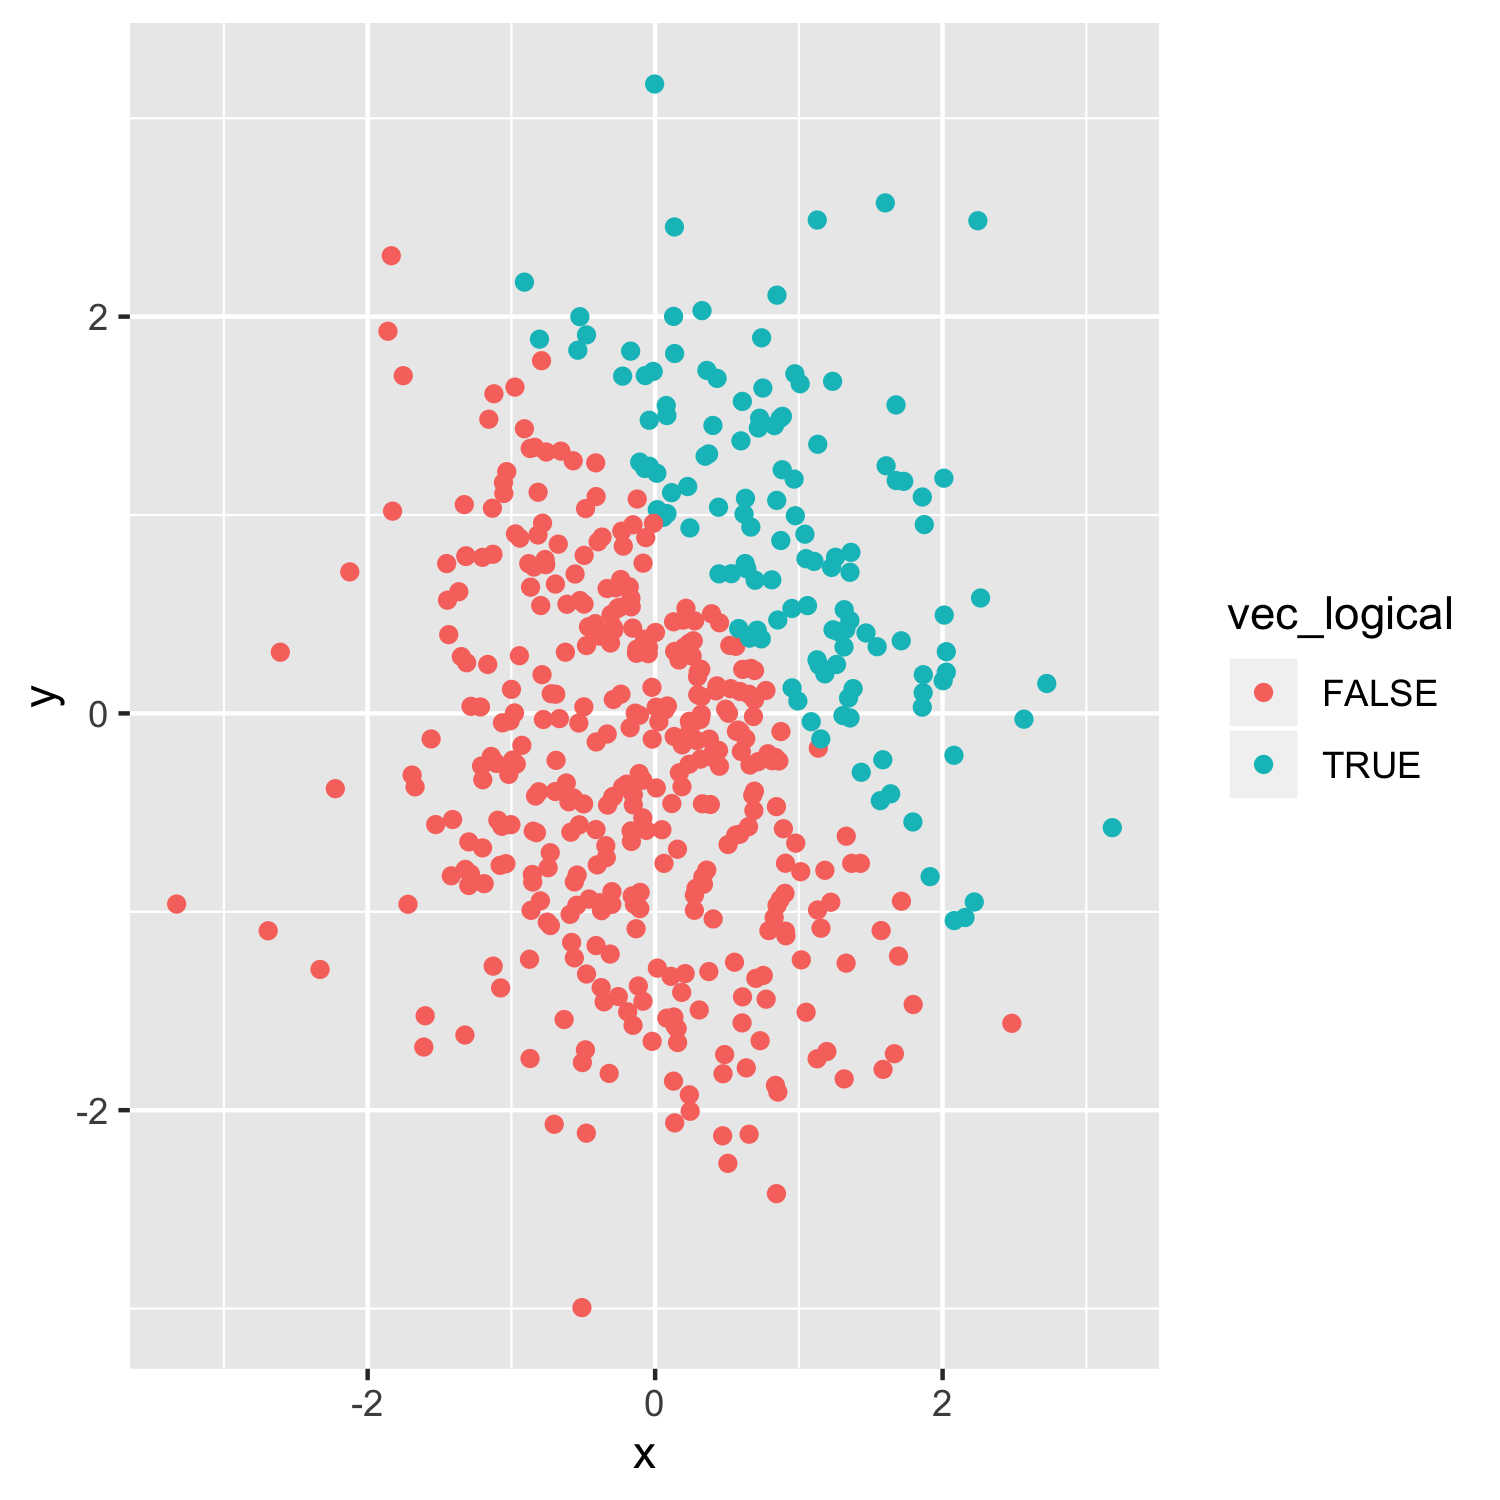
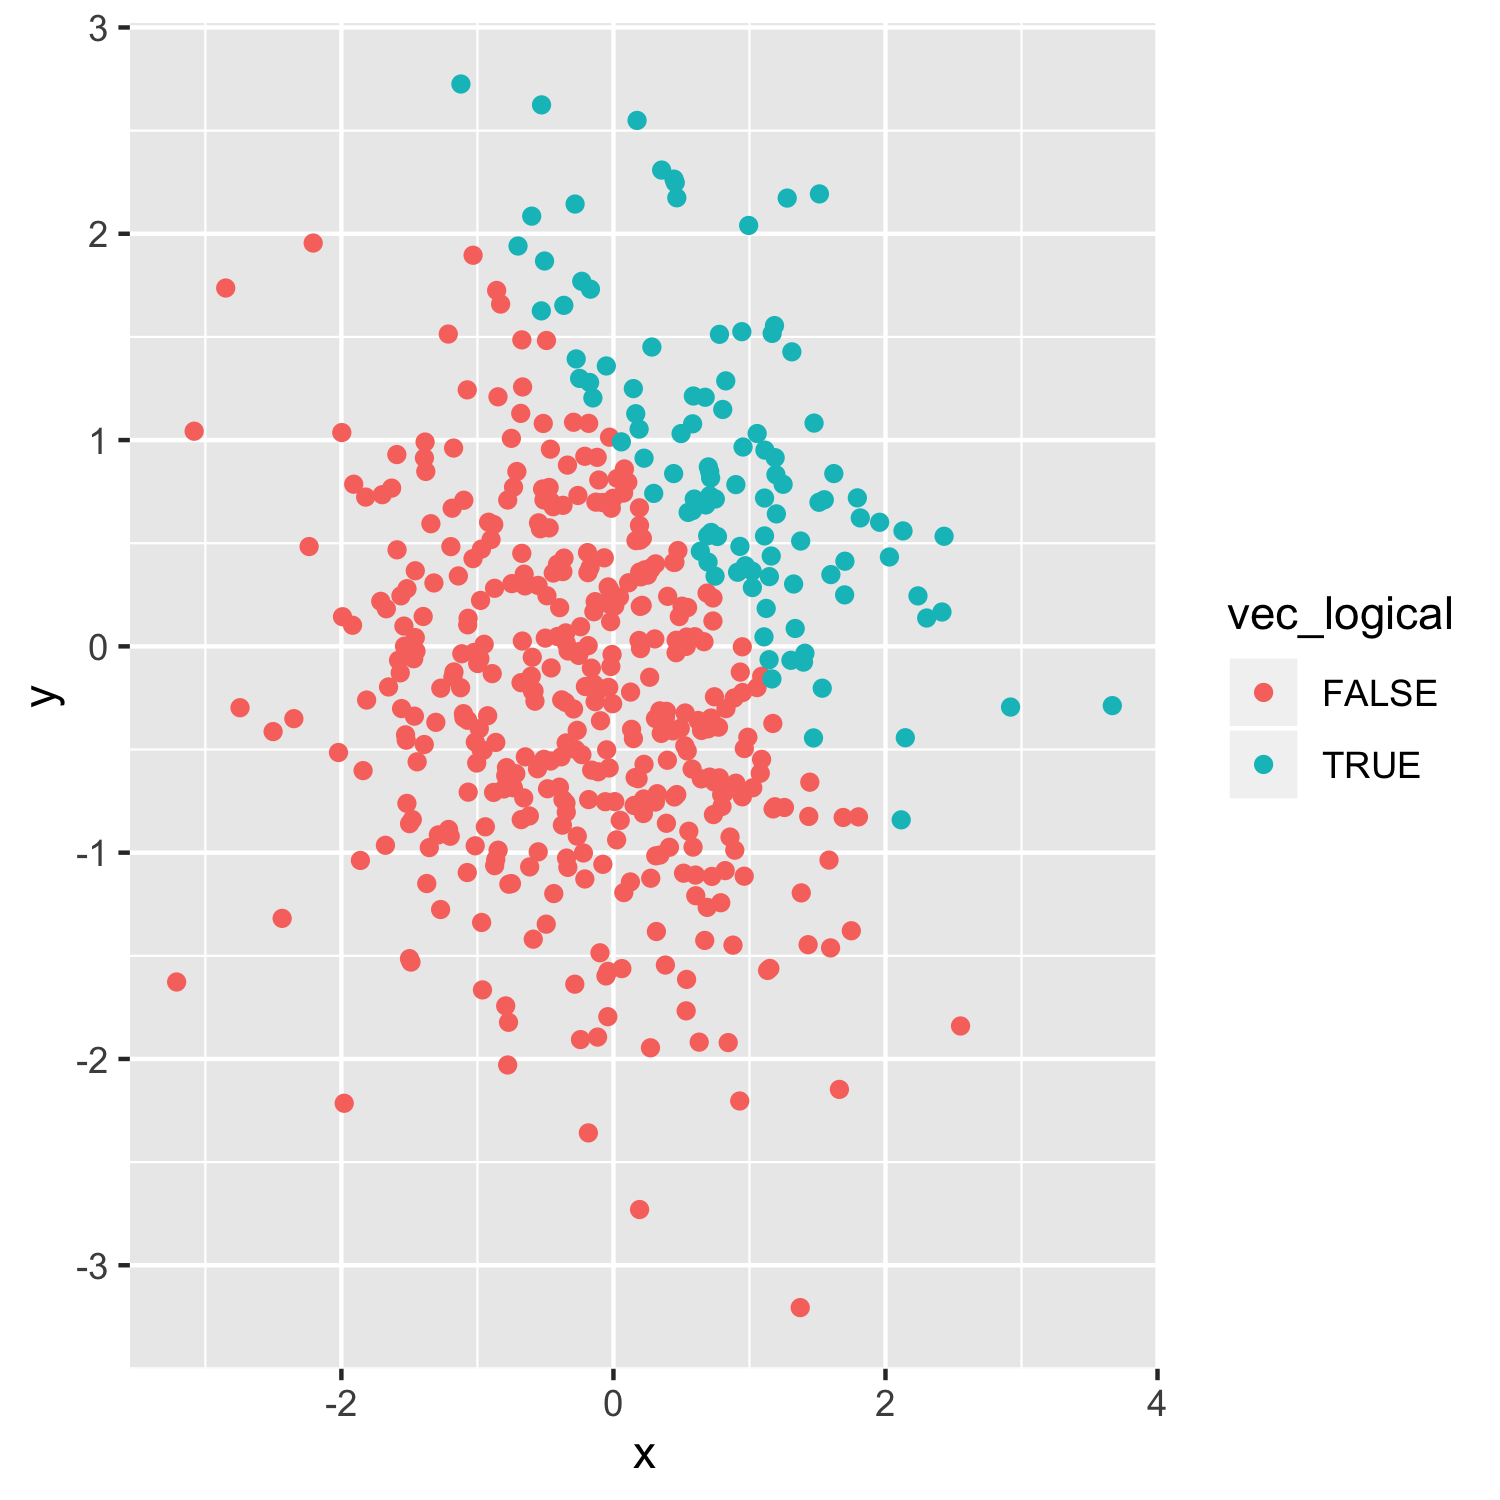
edited the inline notations and fixed the variable names for the scatterplots

diff --git a/p8105_hw1_kzw2102.md b/p8105_hw1_kzw2102.md
@@ -13,18 +13,18 @@ Kelly Wang
 ## 3.a character vector of length 8
 ## 4.a factor vector of length 8, with 3 different factor "levels"
 problem1_df=tibble(
-  x= rnorm(8),
-  vec_logic = x>0,
+  number= rnorm(8),
+  vec_logic = number>0,
   vec_char = c("I'm", "a", "fan", "of", "pineapple", "on", "pizza", "yum!"),
-  vec_factor= c("high", "medium", "low", "low", "medium", "high", "medium", "medium")
+  vec_factor= factor(c("high", "medium", "low", "low", "medium", "high", "medium", "medium"))
 )
 ```
 
-\#\#taking mean of each variable in the data frame
+## taking mean of each variable in the data frame
 
 ``` r
 #create variable
-number=pull(problem1_df, var=x)
+number=pull(problem1_df, var=number)
 overzero=pull(problem1_df, var=vec_logic)
 characters=pull(problem1_df, var=vec_char)
 levels=pull(problem1_df, var=vec_factor)
@@ -33,13 +33,13 @@ levels=pull(problem1_df, var=vec_factor)
 mean(number)
 ```
 
-    ## [1] -0.01350206
+    ## [1] -0.6722893
 
 ``` r
 mean(overzero)
 ```
 
-    ## [1] 0.5
+    ## [1] 0.375
 
 ``` r
 mean(characters)
@@ -78,12 +78,12 @@ vector.
 
 ``` r
 #convert the logical vector to numeric, and multiple the random sample by the result
-y=number*as.numeric(overzero)
-y
+c=number*as.numeric(overzero)
+c
 ```
 
-    ## [1] 0.0000000 0.5607329 0.0000000 1.7545845 0.7427413 1.2169457 0.0000000
-    ## [8] 0.0000000
+    ## [1] 0.0000000 0.0000000 0.0000000 0.0000000 0.0000000 0.6685766 0.6685337
+    ## [8] 0.5763231
 
 ``` r
 #convert the logical vector to a factor, and multiple the random sample by the result
@@ -105,8 +105,8 @@ b=number*as.numeric(as.factor(overzero))
 b
 ```
 
-    ## [1] -0.5599323  1.1214657 -1.7294863  3.5091690  1.4854825  2.4338913
-    ## [7] -1.2689374 -0.8246648
+    ## [1] -1.6819644 -1.0521948 -2.6801159 -1.5306211 -0.3468515  1.3371532
+    ## [7]  1.3370674  1.1526462
 
 # Problem 2
 
@@ -116,41 +116,42 @@ b
 problem2_df=tibble(
   x=rnorm(500),
   y=rnorm(500),
-  vec_logic=x+y>1,
-  a=as.numeric(vec_logic),
-  b=as.factor(vec_logic)
+  vec_logical=(x+y)>1,
+  numeric1=as.numeric(vec_logical),
+  factor1=as.factor(vec_logical)
 )
 ```
 
-In this data set, there are `<(nrow)>` rows (or number of subjects) and
-`<(ncol)>` columns, each denoting a different kind of variable. The mean
-of of our sample is `<mean(x)>`, the median is `<median(x)>`, and the
-standard deviation is `<sd(x)>`. The proportion of cases for which
-x+y\>1 is `(x+y>1)/(x+y)`.
+In this data set, there are 500 rows (or number of subjects) and 5
+columns, each denoting a different kind of variable.
+
+The mean of of our sample is -0.0415804, the median is -0.040728, and
+the standard deviation is 1.0092722.
+
+The proportion of cases for which x+y\>1 is `sum(pull(problem2_df,
+numeric1)/nrow(problem2_df)`.
 
 ## scatterplots
 
 ``` r
 #scatterplot of the logic variables
-ggplot(problem2_df, aes(x=x, y=y, color=vec_logic)) + geom_point()
+ggplot(problem2_df, aes(x=x, y=y, color=vec_logical)) + geom_point()
 ```
 
 ![](p8105_hw1_kzw2102_files/figure-gfm/unnamed-chunk-6-1.png)<!-- -->
 
 ``` r
+#saving ggplot with ggsave
+ggsave("plot1.png", width=5, height=5)
 #scatterplot of numeric variable
-ggplot(problem2_df, aes(x=x, y=y, color=a)) + geom_point()
+ggplot(problem2_df, aes(x=x, y=y, color=numeric1)) + geom_point()
 ```
 
 ![](p8105_hw1_kzw2102_files/figure-gfm/unnamed-chunk-6-2.png)<!-- -->
 
 ``` r
 #scatterplot of factor variables
-ggplot(problem2_df, aes(x=x, y=y, color=b)) + geom_point()
+ggplot(problem2_df, aes(x=x, y=y, color=factor1)) + geom_point()
 ```
 
 ![](p8105_hw1_kzw2102_files/figure-gfm/unnamed-chunk-6-3.png)<!-- -->
-
-``` r
-#saving ggplot with ggsave
-```
